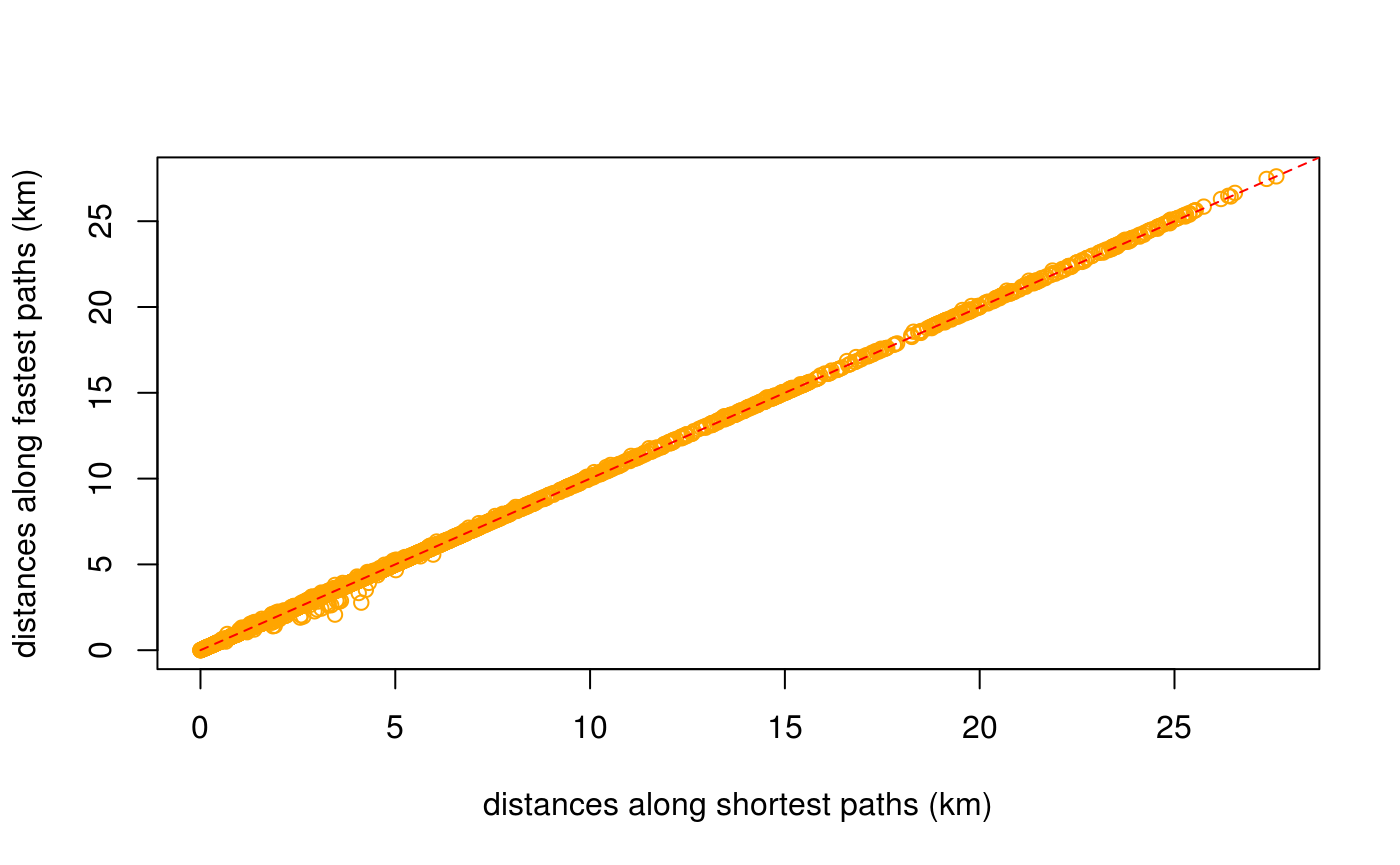
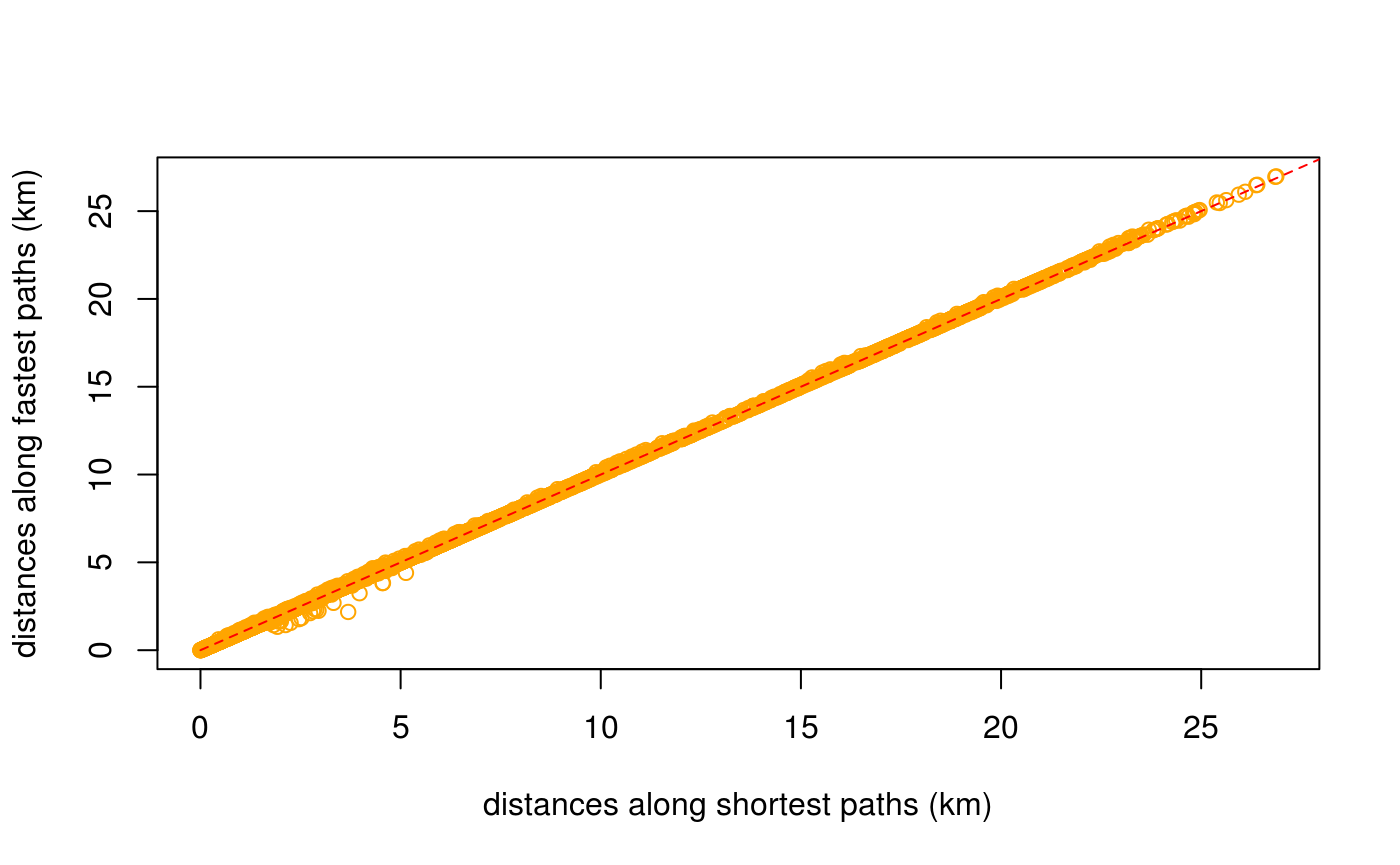
Built site for dodgr: 0.1.4.2@346a85d

diff --git a/articles/dodgr.html b/articles/dodgr.html
@@ -68,7 +68,7 @@
       <h1>dodgr</h1>
                         <h4 class="author">Mark Padgham</h4>
             
-            <h4 class="date">2019-05-23</h4>
+            <h4 class="date">2019-05-24</h4>
       
       <small class="dont-index">Source: <a href="https://github.com/ATFutures/dodgr/blob/master/vignettes/dodgr.Rmd"><code>vignettes/dodgr.Rmd</code></a></small>
       <div class="hidden name"><code>dodgr.Rmd</code></div>
@@ -343,7 +343,7 @@ Figure 2: A <strong>dual</strong>-weighted, directed graph in which the weights 
 <p>The <code>dodgr</code> packages includes a function to select a random connected portion of graph including a specified number of vertices. This function is used in the <code><a href="../reference/compare_heaps.html">compare_heaps()</a></code> function described below, but is also useful for general statistical analyses of large graphs which may otherwise take too long to compute.</p>
 <div class="sourceCode" id="cb59"><pre class="sourceCode r"><code class="sourceCode r"><a class="sourceLine" id="cb59-1" data-line-number="1">graph_sub &lt;-<span class="st"> </span><span class="kw"><a href="../reference/dodgr_sample.html">dodgr_sample</a></span> (graph, <span class="dt">nverts =</span> <span class="dv">100</span>)</a>
 <a class="sourceLine" id="cb59-2" data-line-number="2"><span class="kw"><a href="https://www.rdocumentation.org/packages/base/topics/nrow">nrow</a></span> (graph_sub)</a></code></pre></div>
-<pre><code>## [1] 199</code></pre>
+<pre><code>## [1] 197</code></pre>
 <p>The random sample has around twice as many edges as vertices, in accordance with the statistics calculated above.</p>
 <div class="sourceCode" id="cb61"><pre class="sourceCode r"><code class="sourceCode r"><a class="sourceLine" id="cb61-1" data-line-number="1"><span class="kw"><a href="https://www.rdocumentation.org/packages/base/topics/nrow">nrow</a></span> (<span class="kw"><a href="../reference/dodgr_vertices.html">dodgr_vertices</a></span> (graph_sub))</a></code></pre></div>
 <pre><code>## [1] 100</code></pre>
@@ -420,31 +420,31 @@ Figure 2: A <strong>dual</strong>-weighted, directed graph in which the weights 
 <p>The comparisons are actually made on a randomly selected sub-component of the graph containing a defined number of vertices (with a default of 1,000, or the entire graph if it contains fewer than 1,000 vertices).</p>
 <div class="sourceCode" id="cb77"><pre class="sourceCode r"><code class="sourceCode r"><a class="sourceLine" id="cb77-1" data-line-number="1"><span class="kw"><a href="../reference/compare_heaps.html">compare_heaps</a></span> (graph, <span class="dt">nverts =</span> <span class="dv">100</span>, <span class="dt">replications =</span> <span class="dv">1</span>)</a></code></pre></div>
 <pre><code>##                                                                                   test
-## 9  d &lt;- dodgr_dists(graph_contracted, from = from_id, to = to_id, heap = "TriHeapExt")
-## 10     d &lt;- dodgr_dists(graph_contracted, from = from_id, to = to_id, heap = "Heap23")
 ## 12                  d &lt;- igraph::distances(igr, v = from_id, to = to_id, mode = "out")
-## 2                  d &lt;- dodgr_dists(graph, from = from_id, to = to_id, heap = "FHeap")
-## 3                d &lt;- dodgr_dists(graph, from = from_id, to = to_id, heap = "TriHeap")
 ## 4             d &lt;- dodgr_dists(graph, from = from_id, to = to_id, heap = "TriHeapExt")
-## 5                 d &lt;- dodgr_dists(graph, from = from_id, to = to_id, heap = "Heap23")
-## 6       d &lt;- dodgr_dists(graph_contracted, from = from_id, to = to_id, heap = "BHeap")
 ## 7       d &lt;- dodgr_dists(graph_contracted, from = from_id, to = to_id, heap = "FHeap")
 ## 8     d &lt;- dodgr_dists(graph_contracted, from = from_id, to = to_id, heap = "TriHeap")
+## 9  d &lt;- dodgr_dists(graph_contracted, from = from_id, to = to_id, heap = "TriHeapExt")
+## 10     d &lt;- dodgr_dists(graph_contracted, from = from_id, to = to_id, heap = "Heap23")
 ## 11        d &lt;- dodgr_dists(graph_contracted, from = from_id, to = to_id, heap = "set")
 ## 1                  d &lt;- dodgr_dists(graph, from = from_id, to = to_id, heap = "BHeap")
+## 2                  d &lt;- dodgr_dists(graph, from = from_id, to = to_id, heap = "FHeap")
+## 3                d &lt;- dodgr_dists(graph, from = from_id, to = to_id, heap = "TriHeap")
+## 5                 d &lt;- dodgr_dists(graph, from = from_id, to = to_id, heap = "Heap23")
+## 6       d &lt;- dodgr_dists(graph_contracted, from = from_id, to = to_id, heap = "BHeap")
 ##    replications elapsed relative user.self sys.self user.child sys.child
-## 9             1   0.002      1.0     0.004        0          0         0
-## 10            1   0.002      1.0     0.004        0          0         0
-## 12            1   0.002      1.0     0.004        0          0         0
-## 2             1   0.003      1.5     0.004        0          0         0
-## 3             1   0.003      1.5     0.004        0          0         0
-## 4             1   0.003      1.5     0.004        0          0         0
-## 5             1   0.003      1.5     0.004        0          0         0
-## 6             1   0.003      1.5     0.004        0          0         0
-## 7             1   0.003      1.5     0.000        0          0         0
-## 8             1   0.003      1.5     0.000        0          0         0
-## 11            1   0.003      1.5     0.004        0          0         0
-## 1             1   0.004      2.0     0.004        0          0         0</code></pre>
+## 12            1   0.001        1     0.000        0          0         0
+## 4             1   0.002        2     0.004        0          0         0
+## 7             1   0.002        2     0.000        0          0         0
+## 8             1   0.002        2     0.000        0          0         0
+## 9             1   0.002        2     0.004        0          0         0
+## 10            1   0.002        2     0.000        0          0         0
+## 11            1   0.002        2     0.000        0          0         0
+## 1             1   0.003        3     0.004        0          0         0
+## 2             1   0.003        3     0.004        0          0         0
+## 3             1   0.003        3     0.004        0          0         0
+## 5             1   0.003        3     0.004        0          0         0
+## 6             1   0.003        3     0.004        0          0         0</code></pre>
 <p>The key column of that <code>data.frame</code> is <code>relative</code>, which quantifies the relative performance of each test in relation to the best which is given a score of 1. <code>dodgr</code> using the default <code>heap = "BHeap"</code>, which is a binary heap priority queue, performs faster than <code>igraph</code> <span class="citation">(Csardi and Nepusz 2006)</span> for these graphs. Different kind of graphs will perform differently with different priority queue structures, and this function enables users to empirically discern the optimal heap for their kind of graph.</p>
 <p>Note, however, that this is not an entirely fair comparison, because <code>dodgr</code> calculates dual-weighted distances, whereas <code>igraph</code>—and indeed all other <strong>R</strong> packages—only directly calculate distances based on a single set of weights. Implementing dual-weighted routing in these cases requires explicitly re-tracing all paths and summing the second set of weights along each path. A time comparison in that case would be very strongly in favour of <code>dodgr</code>. Moreover, <code>dodgr</code> can convert graphs to contracted form through removing redundant vertices, as detailed in the following section. Doing so greatly improves performance with respect to <code>igraph</code>.</p>
 <p>For those wishing to do explicit comparisons themselves, the following code generates the <code>igraph</code> equivalent of <code><a href="../reference/dodgr_dists.html">dodgr_dists()</a></code>, although of course for single-weighted graphs only:</p>
@@ -481,11 +481,11 @@ Figure 3: <strong>(A)</strong> Vertex#2 is redundant for routing calculations fr
 <a class="sourceLine" id="cb85-5" data-line-number="5">                       d2 &lt;-<span class="st"> </span><span class="kw"><a href="../reference/dodgr_dists.html">dodgr_dists</a></span> (graph, <span class="dt">from =</span> from, <span class="dt">to =</span> to),</a>
 <a class="sourceLine" id="cb85-6" data-line-number="6">                       <span class="dt">replications =</span> <span class="dv">2</span>)</a></code></pre></div>
 <pre><code>##                                             test replications elapsed
-## 2 d2 &lt;- dodgr_dists(graph, from = from, to = to)            2   0.046
-## 1   d2 &lt;- dodgr_dists(grc, from = from, to = to)            2   0.009
+## 2 d2 &lt;- dodgr_dists(graph, from = from, to = to)            2   0.049
+## 1   d2 &lt;- dodgr_dists(grc, from = from, to = to)            2   0.008
 ##   relative user.self sys.self user.child sys.child
-## 2    5.111     0.060    0.004          0         0
-## 1    1.000     0.012    0.000          0         0</code></pre>
+## 2    6.125     0.068    0.000          0         0
+## 1    1.000     0.008    0.004          0         0</code></pre>
 <p>And contracting the graph has a similar effect of speeding up pairwise routing between these 100 points. All routing algorithms scale non-linearly with size, and relative improvements in efficiency will be even greater for larger graphs.</p>
 <div id="routing-on-contracted-graphs" class="section level2">
 <h2 class="hasAnchor">
@@ -497,11 +497,11 @@ Figure 3: <strong>(A)</strong> Vertex#2 is redundant for routing calculations fr
 <pre><code>## [1] 688</code></pre>
 <div class="sourceCode" id="cb89"><pre class="sourceCode r"><code class="sourceCode r"><a class="sourceLine" id="cb89-1" data-line-number="1">verts &lt;-<span class="st"> </span><span class="kw"><a href="https://www.rdocumentation.org/packages/base/topics/sample">sample</a></span> (<span class="kw"><a href="../reference/dodgr_vertices.html">dodgr_vertices</a></span> (graph)<span class="op">$</span>id, <span class="dt">size =</span> <span class="dv">100</span>)</a>
 <a class="sourceLine" id="cb89-2" data-line-number="2"><span class="kw"><a href="https://www.rdocumentation.org/packages/utils/topics/head">head</a></span> (verts) <span class="co"># a character vector</span></a></code></pre></div>
-<pre><code>## [1] "313796425"  "1143452198" "1143452067" "2588146120" "2398957641"
-## [6] "3544918808"</code></pre>
+<pre><code>## [1] "2588155755" "3921513015" "1427115981" "1143452084" "3921511689"
+## [6] "2588155705"</code></pre>
 <div class="sourceCode" id="cb91"><pre class="sourceCode r"><code class="sourceCode r"><a class="sourceLine" id="cb91-1" data-line-number="1">grc &lt;-<span class="st"> </span><span class="kw"><a href="../reference/dodgr_contract_graph.html">dodgr_contract_graph</a></span> (graph, verts)<span class="op">$</span>graph</a>
 <a class="sourceLine" id="cb91-2" data-line-number="2"><span class="kw"><a href="https://www.rdocumentation.org/packages/base/topics/nrow">nrow</a></span> (grc)</a></code></pre></div>
-<pre><code>## [1] 870</code></pre>
+<pre><code>## [1] 866</code></pre>
 <p>Retaining the nominated vertices yields a graph with considerably more edges than the fully contracted graph excluding these vertices. The <code><a href="../reference/dodgr_dists.html">dodgr_dists()</a></code> function can be applied to the latter graph to obtain accurate distances precisely routed between these points, yet using the speed advantages of graph contraction.</p>
 </div>
 </div>
@@ -542,36 +542,21 @@ Figure 3: <strong>(A)</strong> Vertex#2 is redundant for routing calculations fr
 <pre><code>## [1] 10</code></pre>
 <p>The result (<code>dp</code>) is a list of 10 items, each of which contains 5 vectors. An example is,</p>
 <div class="sourceCode" id="cb98"><pre class="sourceCode r"><code class="sourceCode r"><a class="sourceLine" id="cb98-1" data-line-number="1">dp [[<span class="dv">1</span>]] [[<span class="dv">1</span>]]</a></code></pre></div>
-<pre><code>##  [1] "1376768524" "1376768887" "1376768313" "1376768768" "1376769153"
-##  [6] "2717241302" "1376768559" "1376768918" "1376769209" "1376768614"
-## [11] "1376768975" "1376768398" "1376768862" "1376768464" "1376768828"
-## [16] "1376769110" "3697937607" "3697937608" "3697937609" "3697937616"
-## [21] "3697937612" "3697937611" "3697937613" "3697937614" "3697937615"
-## [26] "3697937610" "3697937571" "3697937573" "3697937588" "3697937601"
-## [31] "3697937589" "3697937585" "3697937604" "3697937579" "3697937572"
-## [36] "3697937603" "3697937598" "3697937602" "3697937595" "3697937586"
-## [41] "3697937584" "3697937606" "3697937596" "3697937583" "3697937597"
-## [46] "3697937574" "3697937582" "3697937578" "3697937575" "3697937605"
-## [51] "3697937599" "3697937591" "4337842057" "4337842060" "4337842061"
-## [56] "4337842067" "4337842073" "4337842068" "4337842064" "4337842069"
-## [61] "4337842075" "4337842079" "4337842189" "4337842192" "3697937587"
-## [66] "4337842203" "4337842205" "4337842204" "4337842200" "4337842201"
-## [71] "4337842086" "4337842082" "4337842081" "4337842084" "4337842190"
-## [76] "4337842197" "4337842196" "4337842078" "4337842071" "4337842065"
-## [81] "4337842053" "4337842072" "4337842070" "4337842080" "4337842076"
-## [86] "4337842195" "4337842198" "4337842199" "4337842083" "4337842063"
-## [91] "4337842058" "4337842055" "4337842056"</code></pre>
+<pre><code>##  [1] "3921514719" "3921514721" "3921514723" "3921514720" "3921514718"
+##  [6] "2627444775" "571423170"  "2627444774" "977490136"  "1143452068"
+## [11] "2627486266" "2627486267" "2627486265" "2627486262" "2627486268"
+## [16] "2627486269"</code></pre>
 <p>For spatial graphs, the coordinates of these paths can be obtained by extracting the vertices with <code><a href="../reference/dodgr_vertices.html">dodgr_vertices()</a></code> and matching the vertex IDs:</p>
 <div class="sourceCode" id="cb100"><pre class="sourceCode r"><code class="sourceCode r"><a class="sourceLine" id="cb100-1" data-line-number="1">verts &lt;-<span class="st"> </span><span class="kw"><a href="../reference/dodgr_vertices.html">dodgr_vertices</a></span> (graph)</a>
 <a class="sourceLine" id="cb100-2" data-line-number="2">path1 &lt;-<span class="st"> </span>verts [<span class="kw"><a href="https://www.rdocumentation.org/packages/base/topics/match">match</a></span> (dp [[<span class="dv">1</span>]] [[<span class="dv">1</span>]], verts<span class="op">$</span>id), ]</a>
 <a class="sourceLine" id="cb100-3" data-line-number="3"><span class="kw"><a href="https://www.rdocumentation.org/packages/utils/topics/head">head</a></span> (path1)</a></code></pre></div>
 <pre><code>##              id        x        y component    n
-## 2988 1376768524 76.46723 15.32564         1 1500
-## 2990 1376768887 76.46740 15.32569         1 1501
-## 2992 1376768313 76.46765 15.32560         1 1502
-## 2994 1376768768 76.46779 15.32561         1 1503
-## 2996 1376769153 76.46823 15.32590         1 1504
-## 2998 2717241302 76.46825 15.32599         1 1505</code></pre>
+## 5436 3921514719 76.47216 15.35168         2 2665
+## 5434 3921514721 76.47141 15.35146         2 2664
+## 5432 3921514723 76.47011 15.35170         2 2663
+## 5430 3921514720 76.46943 15.35169         2 2662
+## 1702 3921514718 76.46921 15.35184         2  862
+## 1704 2627444775 76.46926 15.35189         2  863</code></pre>
 <p>Paths calculated on contracted graphs will of course have fewer vertices than those calculated on full graphs.</p>
 </div>
 <div id="aggregated-flows" class="section level1">
@@ -605,17 +590,17 @@ Figure 3: <strong>(A)</strong> Vertex#2 is redundant for routing calculations fr
 ## 4 15.34173   8.888670    9.87630 service 28565950         1  2.133281
 ## 5 15.34179   9.326536   10.36282 service 28565950         1  2.238369
 ## 6 15.34174   9.326536   10.36282 service 28565950         1  2.238369
-##   time_weighted     flow
-## 1     35.317912  0.00000
-## 2     35.317912 18.58667
-## 3      2.370312  0.00000
-## 4      2.370312 18.58667
-## 5      2.487076  0.00000
-## 6      2.487076 18.58667</code></pre>
+##   time_weighted flow
+## 1     35.317912    0
+## 2     35.317912    0
+## 3      2.370312    0
+## 4      2.370312    0
+## 5      2.487076    0
+## 6      2.487076    0</code></pre>
 <p>Most flows are zero because they have only been calculated between very few points in the graph.</p>
 <div class="sourceCode" id="cb105"><pre class="sourceCode r"><code class="sourceCode r"><a class="sourceLine" id="cb105-1" data-line-number="1"><span class="kw"><a href="https://www.rdocumentation.org/packages/base/topics/summary">summary</a></span> (graph_f<span class="op">$</span>flow)</a></code></pre></div>
 <pre><code>##    Min. 1st Qu.  Median    Mean 3rd Qu.    Max. 
-##   0.000   0.000   0.000   4.501   1.515  44.385</code></pre>
+##   0.000   0.000   0.000   7.111   0.000  96.351</code></pre>
 </div>
 <div id="flow-dispersal" class="section level2">
 <h2 class="hasAnchor">
@@ -624,8 +609,8 @@ Figure 3: <strong>(A)</strong> Vertex#2 is redundant for routing calculations fr
 <div class="sourceCode" id="cb107"><pre class="sourceCode r"><code class="sourceCode r"><a class="sourceLine" id="cb107-1" data-line-number="1">dens &lt;-<span class="st"> </span><span class="kw"><a href="https://www.rdocumentation.org/packages/base/topics/rep">rep</a></span> (<span class="dv">1</span>, <span class="kw"><a href="https://www.rdocumentation.org/packages/base/topics/length">length</a></span> (from)) <span class="co"># uniform densities</span></a>
 <a class="sourceLine" id="cb107-2" data-line-number="2">graph_f &lt;-<span class="st"> </span><span class="kw"><a href="../reference/dodgr_flows_disperse.html">dodgr_flows_disperse</a></span> (graph, <span class="dt">from =</span> from, <span class="dt">dens =</span> dens)</a>
 <a class="sourceLine" id="cb107-3" data-line-number="3"><span class="kw"><a href="https://www.rdocumentation.org/packages/base/topics/summary">summary</a></span> (graph_f<span class="op">$</span>flow)</a></code></pre></div>
-<pre><code>##      Min.   1st Qu.    Median      Mean   3rd Qu.      Max. 
-## 0.000e+00 0.000e+00 0.000e+00 1.611e-05 0.000e+00 4.242e-02</code></pre>
+<pre><code>##     Min.  1st Qu.   Median     Mean  3rd Qu.     Max. 
+## 0.000000 0.000000 0.000000 0.000107 0.000000 0.342305</code></pre>
 </div>
 <div id="merging-directed-flows" class="section level2">
 <h2 class="hasAnchor">
@@ -635,7 +620,7 @@ Figure 3: <strong>(A)</strong> Vertex#2 is redundant for routing calculations fr
 <p>Resultant graphs produced by <code><a href="../reference/merge_directed_flows.html">merge_directed_flows()</a></code> only include those edges having non-zero flows, and so:</p>
 <div class="sourceCode" id="cb110"><pre class="sourceCode r"><code class="sourceCode r"><a class="sourceLine" id="cb110-1" data-line-number="1"><span class="kw"><a href="https://www.rdocumentation.org/packages/base/topics/nrow">nrow</a></span> (graph_f); <span class="kw"><a href="https://www.rdocumentation.org/packages/base/topics/nrow">nrow</a></span> (graph_undir) <span class="co"># the latter is much smaller</span></a></code></pre></div>
 <pre><code>## [1] 5845</code></pre>
-<pre><code>## [1] 1844</code></pre>
+<pre><code>## [1] 1899</code></pre>
 <p>The resultant graph can readily be merged with the original graph to regain the original data on vertex coordinates through</p>
 <div class="sourceCode" id="cb113"><pre class="sourceCode r"><code class="sourceCode r"><a class="sourceLine" id="cb113-1" data-line-number="1">graph &lt;-<span class="st"> </span>graph [graph_undir<span class="op">$</span>edge_id, ]</a>
 <a class="sourceLine" id="cb113-2" data-line-number="2">graph<span class="op">$</span>flow &lt;-<span class="st"> </span>graph_undir<span class="op">$</span>flow</a></code></pre></div>

diff --git a/articles/times.html b/articles/times.html
@@ -68,7 +68,7 @@
       <h1>Street networks and time-based routing</h1>
                         <h4 class="author">Mark Padgham</h4>
             
-            <h4 class="date">2019-05-23</h4>
+            <h4 class="date">2019-05-24</h4>
       
       <small class="dont-index">Source: <a href="https://github.com/ATFutures/dodgr/blob/master/vignettes/times.Rmd"><code>vignettes/times.Rmd</code></a></small>
       <div class="hidden name"><code>times.Rmd</code></div>
@@ -233,11 +233,11 @@ Figure 1: Graph modification to account for turn angles, which introduces the ad
 <p><img src="times_files/figure-html/shortest-vs-fastest-1.png" width="700"></p>
 <p>The average distance between the two (in metres) is:</p>
 <div class="sourceCode" id="cb11"><pre class="sourceCode r"><code class="sourceCode r"><a class="sourceLine" id="cb11-1" data-line-number="1"><span class="kw"><a href="https://www.rdocumentation.org/packages/base/topics/mean">mean</a></span> (<span class="kw"><a href="https://www.rdocumentation.org/packages/base/topics/MathFun">abs</a></span> (d_time <span class="op">-</span><span class="st"> </span>d_dist), <span class="dt">na.rm =</span> <span class="ot">TRUE</span>)</a></code></pre></div>
-<pre><code>## [1] 25.70127</code></pre>
+<pre><code>## [1] 32.6876</code></pre>
 <p>The plot reveals that shortest distances are indeed somewhat shorter than distances along fastest paths, but also that some fastest paths are actually shorter than shortest paths:</p>
 <div class="sourceCode" id="cb13"><pre class="sourceCode r"><code class="sourceCode r"><a class="sourceLine" id="cb13-1" data-line-number="1">index &lt;-<span class="st"> </span><span class="kw"><a href="https://www.rdocumentation.org/packages/base/topics/which">which</a></span> (<span class="op">!</span><span class="kw"><a href="https://www.rdocumentation.org/packages/base/topics/NA">is.na</a></span> (d_time) <span class="op">&amp;</span><span class="st"> </span><span class="op">!</span><span class="kw"><a href="https://www.rdocumentation.org/packages/base/topics/NA">is.na</a></span> (d_dist))</a>
 <a class="sourceLine" id="cb13-2" data-line-number="2"><span class="kw"><a href="https://www.rdocumentation.org/packages/base/topics/length">length</a></span> (<span class="kw"><a href="https://www.rdocumentation.org/packages/base/topics/which">which</a></span> (d_time [index] <span class="op">&lt;</span><span class="st"> </span>d_dist [index])) <span class="op">/</span><span class="st"> </span><span class="kw"><a href="https://www.rdocumentation.org/packages/base/topics/length">length</a></span> (index)</a></code></pre></div>
-<pre><code>## [1] 0.009847267</code></pre>
+<pre><code>## [1] 0.01228546</code></pre>
 <p>While <code>dodgr</code> and indeed all routing engines attempt to maximally reconcile differences between fastest and shortest routes, there nevertheless remain important discrepancies. Foremost among these, and the primary reason why some fastest routes may in fact be shorter than shortest routes, is that fastest routes allocate preferences for different kinds of way based both on the <code>value</code> column in the <code>weighting_profiles$weighting_profiles</code> table illustrated above, and on the actual maximum speed of a given edge, which itself may be a combination of maximum speeds as specified in OSM itself, maximum speeds from the <code>weighting_profiles$weighting_profiles</code> table, or values specific to a given surface. The result is that some unique combination of maximum speeds along a network may lead to <em>fastest</em> routes being preferentially directed along a path that is actually shorter than the direct shortest path which is calculated independent of maximum speed values.</p>
 <p>Such discrepancies are important in understanding differences in routes <em>times</em> calculated along shortest versus fastest paths. These times can be calculated (in seconds) with the <a href="https://atfutures.github.io/dodgr/reference/dodgr_times.html"><code><a href="../reference/dodgr_times.html">dodgr_times()</a></code></a> function:</p>
 <div class="sourceCode" id="cb15"><pre class="sourceCode r"><code class="sourceCode r"><a class="sourceLine" id="cb15-1" data-line-number="1">t_dist &lt;-<span class="st"> </span><span class="kw"><a href="../reference/dodgr_times.html">dodgr_times</a></span> (graph, <span class="dt">from =</span> from, <span class="dt">to =</span> to, <span class="dt">shortest =</span> <span class="ot">TRUE</span>) <span class="co"># default</span></a>
@@ -248,11 +248,11 @@ Figure 1: Graph modification to account for turn angles, which introduces the ad
 <a class="sourceLine" id="cb15-6" data-line-number="6"><span class="kw"><a href="https://www.rdocumentation.org/packages/graphics/topics/lines">lines</a></span> (<span class="dv">0</span><span class="op">:</span><span class="dv">100</span>, <span class="dv">0</span><span class="op">:</span><span class="dv">100</span>, <span class="dt">col =</span> <span class="st">"red"</span>, <span class="dt">lty =</span> <span class="dv">2</span>)</a></code></pre></div>
 <p><img src="times_files/figure-html/shortest-vs-fastest-times-1.png" width="700"></p>
 <div class="sourceCode" id="cb16"><pre class="sourceCode r"><code class="sourceCode r"><a class="sourceLine" id="cb16-1" data-line-number="1"><span class="kw"><a href="https://www.rdocumentation.org/packages/base/topics/mean">mean</a></span> (<span class="kw"><a href="https://www.rdocumentation.org/packages/base/topics/MathFun">abs</a></span> (t_time <span class="op">-</span><span class="st"> </span>t_dist), <span class="dt">na.rm =</span> <span class="ot">TRUE</span>)</a></code></pre></div>
-<pre><code>## [1] 106.1533</code></pre>
+<pre><code>## [1] 141.148</code></pre>
 <p>As above, times along fastest paths are generally less than times along shortest paths, although there are again a few exceptions:</p>
 <div class="sourceCode" id="cb18"><pre class="sourceCode r"><code class="sourceCode r"><a class="sourceLine" id="cb18-1" data-line-number="1">index &lt;-<span class="st"> </span><span class="kw"><a href="https://www.rdocumentation.org/packages/base/topics/which">which</a></span> (<span class="op">!</span><span class="kw"><a href="https://www.rdocumentation.org/packages/base/topics/NA">is.na</a></span> (t_time) <span class="op">&amp;</span><span class="st"> </span><span class="op">!</span><span class="kw"><a href="https://www.rdocumentation.org/packages/base/topics/NA">is.na</a></span> (t_dist))</a>
 <a class="sourceLine" id="cb18-2" data-line-number="2"><span class="kw"><a href="https://www.rdocumentation.org/packages/base/topics/length">length</a></span> (<span class="kw"><a href="https://www.rdocumentation.org/packages/base/topics/which">which</a></span> (t_dist [index] <span class="op">&lt;</span><span class="st"> </span>t_time [index])) <span class="op">/</span><span class="st"> </span><span class="kw"><a href="https://www.rdocumentation.org/packages/base/topics/length">length</a></span> (index)</a></code></pre></div>
-<pre><code>## [1] 0.001808682</code></pre>
+<pre><code>## [1] 0.006684734</code></pre>
 <p>These results demonstrate how the combination of the <a href="https://atfutures.github.io/dodgr/reference/dodgr_distances.html"><code><a href="../reference/dodgr_distances.html">dodgr_distances()</a></code></a> and <a href="https://atfutures.github.io/dodgr/reference/dodgr_times.html"><code><a href="../reference/dodgr_times.html">dodgr_times()</a></code></a> functions enable calculation of both distances and times along both shortest and fastest paths.</p>
 <div id="time-based-paths-and-flow-aggregation" class="section level2">
 <h2 class="hasAnchor">

diff --git a/reference/compare_heaps.html b/reference/compare_heaps.html
@@ -157,9 +157,9 @@ fair comparisons, run only once or re-start the current R session.</p>
 #&gt; 6       d &lt;- dodgr_dists(graph_contracted, from = from_id, to = to_id, heap = "BHeap")
 #&gt; 11        d &lt;- dodgr_dists(graph_contracted, from = from_id, to = to_id, heap = "set")
 #&gt; 7       d &lt;- dodgr_dists(graph_contracted, from = from_id, to = to_id, heap = "FHeap")
-#&gt; 8     d &lt;- dodgr_dists(graph_contracted, from = from_id, to = to_id, heap = "TriHeap")
 #&gt; 9  d &lt;- dodgr_dists(graph_contracted, from = from_id, to = to_id, heap = "TriHeapExt")
 #&gt; 10     d &lt;- dodgr_dists(graph_contracted, from = from_id, to = to_id, heap = "Heap23")
+#&gt; 8     d &lt;- dodgr_dists(graph_contracted, from = from_id, to = to_id, heap = "TriHeap")
 #&gt; 12                  d &lt;- igraph::distances(igr, v = from_id, to = to_id, mode = "out")
 #&gt; 1                  d &lt;- dodgr_dists(graph, from = from_id, to = to_id, heap = "BHeap")
 #&gt; 2                  d &lt;- dodgr_dists(graph, from = from_id, to = to_id, heap = "FHeap")
@@ -167,18 +167,18 @@ fair comparisons, run only once or re-start the current R session.</p>
 #&gt; 5                 d &lt;- dodgr_dists(graph, from = from_id, to = to_id, heap = "Heap23")
 #&gt; 4             d &lt;- dodgr_dists(graph, from = from_id, to = to_id, heap = "TriHeapExt")
 #&gt;    replications elapsed relative user.self sys.self user.child sys.child
-#&gt; 6             1   0.004     1.00     0.004        0          0         0
-#&gt; 11            1   0.004     1.00     0.004        0          0         0
-#&gt; 7             1   0.005     1.25     0.008        0          0         0
-#&gt; 8             1   0.005     1.25     0.008        0          0         0
-#&gt; 9             1   0.005     1.25     0.004        0          0         0
-#&gt; 10            1   0.005     1.25     0.008        0          0         0
-#&gt; 12            1   0.011     2.75     0.012        0          0         0
-#&gt; 1             1   0.019     4.75     0.032        0          0         0
-#&gt; 2             1   0.025     6.25     0.040        0          0         0
-#&gt; 3             1   0.025     6.25     0.044        0          0         0
-#&gt; 5             1   0.025     6.25     0.040        0          0         0
-#&gt; 4             1   0.028     7.00     0.028        0          0         0</div></pre>
+#&gt; 6             1   0.005      1.0     0.004        0          0         0
+#&gt; 11            1   0.005      1.0     0.008        0          0         0
+#&gt; 7             1   0.006      1.2     0.012        0          0         0
+#&gt; 9             1   0.006      1.2     0.008        0          0         0
+#&gt; 10            1   0.006      1.2     0.008        0          0         0
+#&gt; 8             1   0.007      1.4     0.008        0          0         0
+#&gt; 12            1   0.015      3.0     0.012        0          0         0
+#&gt; 1             1   0.025      5.0     0.044        0          0         0
+#&gt; 2             1   0.032      6.4     0.060        0          0         0
+#&gt; 3             1   0.034      6.8     0.060        0          0         0
+#&gt; 5             1   0.034      6.8     0.060        0          0         0
+#&gt; 4             1   0.038      7.6     0.040        0          0         0</div></pre>
   </div>
   <div class="col-md-3 hidden-xs hidden-sm" id="sidebar">
     <h2>Contents</h2>

diff --git a/reference/dodgr_sample.html b/reference/dodgr_sample.html
@@ -141,7 +141,7 @@ the requested <code>nverts</code>.</p>
     <h2 class="hasAnchor" id="examples"><a class="anchor" href="#examples"></a>Examples</h2>
     <pre class="examples"><div class='input'><span class='no'>graph</span> <span class='kw'>&lt;-</span> <span class='fu'><a href='weight_streetnet.html'>weight_streetnet</a></span> (<span class='no'>hampi</span>)
 <span class='fu'><a href='https://www.rdocumentation.org/packages/base/topics/nrow'>nrow</a></span> (<span class='no'>graph</span>) <span class='co'># 5,742</span></div><div class='output co'>#&gt; [1] 5845</div><div class='input'><span class='no'>graph</span> <span class='kw'>&lt;-</span> <span class='fu'>dodgr_sample</span> (<span class='no'>graph</span>, <span class='kw'>nverts</span> <span class='kw'>=</span> <span class='fl'>200</span>)
-<span class='fu'><a href='https://www.rdocumentation.org/packages/base/topics/nrow'>nrow</a></span> (<span class='no'>graph</span>) <span class='co'># generally around 400 edges</span></div><div class='output co'>#&gt; [1] 399</div><div class='input'><span class='fu'><a href='https://www.rdocumentation.org/packages/base/topics/nrow'>nrow</a></span> (<span class='fu'><a href='dodgr_vertices.html'>dodgr_vertices</a></span> (<span class='no'>graph</span>)) <span class='co'># 200</span></div><div class='output co'>#&gt; [1] 200</div></pre>
+<span class='fu'><a href='https://www.rdocumentation.org/packages/base/topics/nrow'>nrow</a></span> (<span class='no'>graph</span>) <span class='co'># generally around 400 edges</span></div><div class='output co'>#&gt; [1] 401</div><div class='input'><span class='fu'><a href='https://www.rdocumentation.org/packages/base/topics/nrow'>nrow</a></span> (<span class='fu'><a href='dodgr_vertices.html'>dodgr_vertices</a></span> (<span class='no'>graph</span>)) <span class='co'># 200</span></div><div class='output co'>#&gt; [1] 200</div></pre>
   </div>
   <div class="col-md-3 hidden-xs hidden-sm" id="sidebar">
     <h2>Contents</h2>

diff --git a/index.html b/index.html
@@ -511,7 +511,7 @@
 <td align="right">1</td>
 <td align="right">95.358362</td>
 <td align="right">105.953735</td>
-<td align="right">35.57511</td>
+<td align="right">47.37129</td>
 </tr>
 <tr class="even">
 <td align="right">1</td>
@@ -529,7 +529,7 @@
 <td align="right">1</td>
 <td align="right">95.358362</td>
 <td align="right">105.953735</td>
-<td align="right">43.77020</td>
+<td align="right">27.00590</td>
 </tr>
 <tr class="odd">
 <td align="right">1</td>
@@ -547,7 +547,7 @@
 <td align="right">1</td>
 <td align="right">6.399843</td>
 <td align="right">7.110936</td>
-<td align="right">35.57511</td>
+<td align="right">47.37129</td>
 </tr>
 <tr class="even">
 <td align="right">1</td>
@@ -565,7 +565,7 @@
 <td align="right">1</td>
 <td align="right">6.399843</td>
 <td align="right">7.110936</td>
-<td align="right">43.77020</td>
+<td align="right">27.00590</td>
 </tr>
 <tr class="odd">
 <td align="right">1</td>
@@ -583,7 +583,7 @@
 <td align="right">1</td>
 <td align="right">6.715106</td>
 <td align="right">7.461229</td>
-<td align="right">35.57511</td>
+<td align="right">47.37129</td>
 </tr>
 <tr class="even">
 <td align="right">1</td>
@@ -601,7 +601,7 @@
 <td align="right">1</td>
 <td align="right">6.715106</td>
 <td align="right">7.461229</td>
-<td align="right">43.77020</td>
+<td align="right">27.00590</td>
 </tr>
 </tbody>
 </table>

diff --git a/articles/benchmark.html b/articles/benchmark.html
@@ -68,7 +68,7 @@
       <h1>dodgr benchmark</h1>
                         <h4 class="author">Andreas Petutschnig</h4>
             
-            <h4 class="date">2019-05-23</h4>
+            <h4 class="date">2019-05-24</h4>
       
       <small class="dont-index">Source: <a href="https://github.com/ATFutures/dodgr/blob/master/vignettes/benchmark.Rmd"><code>vignettes/benchmark.Rmd</code></a></small>
       <div class="hidden name"><code>benchmark.Rmd</code></div>

diff --git a/reference/dodgr_contract_graph.html b/reference/dodgr_contract_graph.html
@@ -127,7 +127,7 @@ similarly labelled columns of spatial coordinates (for example
     <tr>
       <th>verts</th>
       <td><p>Optional list of vertices to be retained as routing points.
-These must match the <code>from_id</code> and <code>to_id</code> columns of <code>graph</code>.</p></td>
+These must match the <code>from</code> and <code>to</code> columns of <code>graph</code>.</p></td>
     </tr>
     </table>
     
